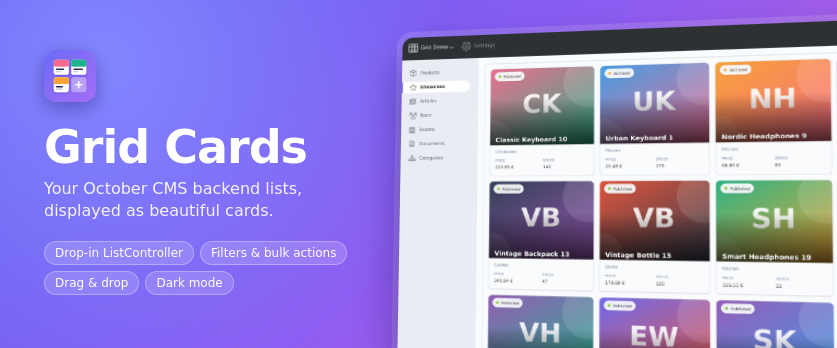
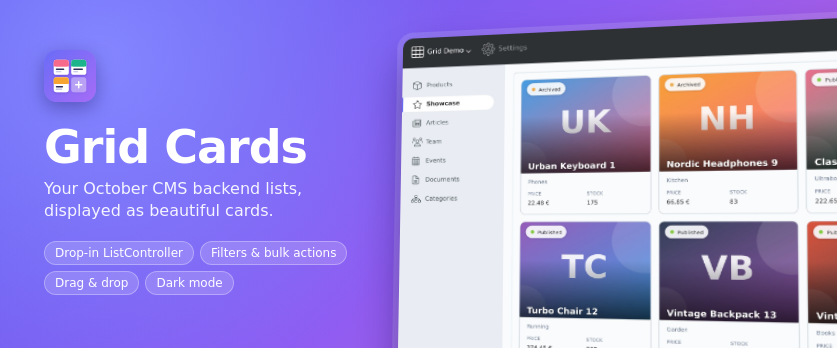
Marketplace screenshots at 1800 x 1350 (ratio 1.33), the 5 first ones chosen for the plugin page

diff --git a/docs/marketplace/banner.html b/docs/marketplace/banner.html
@@ -31,7 +31,7 @@
 </style>
 </head>
 <body>
-    <div class="shot"><img src="../screenshots/02-showcase-overlay-sortable.jpg" alt=""></div>
+    <div class="shot"><img src="../screenshots/02-overlay-sortable.jpg" alt=""></div>
     <div class="text">
         <img class="logo" src="logo.svg" alt="">
         <h1>Grid Cards</h1>

diff --git a/docs/marketplace/listing.md b/docs/marketplace/listing.md
@@ -13,7 +13,7 @@ Fields to fill in the plugin form of the October CMS Marketplace.
 | Category | Developer tools |
 | Icon | `logo.png` (512 × 512) |
 | Banner | `banner.png` (837 × 348), `banner@2x.png` (1674 × 696) |
-| Screenshots | `../screenshots/*.jpg`, in the order of their numbers |
+| Screenshots | `../screenshots/*.jpg` (1800 × 1350, ratio 1.33), in the order of their numbers: only the first 5 are displayed on the plugin page |
 
 ## Short description
 
@@ -25,18 +25,19 @@ backend, list, grid, cards, card view, gallery, ListController, list widget, reo
 
 ## Screenshot captions
 
+The first 5 screenshots are displayed on the plugin page.
+
 | File | Caption |
 |---|---|
 | 01-products-cards.jpg | Products as cards, with the filters, the search and the sort selector of the list |
-| 02-showcase-overlay-sortable.jpg | Overlay layout: the title over the image, cards reordered by drag and drop |
-| 03-articles.jpg | Articles with a status badge, an excerpt and statistics |
-| 04-team.jpg | Team members with avatars, email links and availability switches |
-| 05-events.jpg | Cards without image: a date tile partial, date and time columns |
-| 06-documents.jpg | Compact cards with file attachments |
-| 07-products-selection.jpg | Bulk selection: checked cards and the toolbar actions |
-| 08-articles-sort-selector.jpg | The sort selector replaces the column headers of the table |
-| 09-products-dark.jpg | Dark mode |
-| 10-events-dark.jpg | Dark mode |
-| 11-team-dark.jpg | Dark mode |
-| 12-products-mobile.jpg | Responsive grid on mobile |
-| 13-events-mobile.jpg | Responsive grid on mobile |
+| 02-overlay-sortable.jpg | Overlay layout: the title over the image, cards reordered by drag and drop |
+| 03-team.jpg | Team members with avatars, email links and availability switches |
+| 04-events.jpg | Cards without image: a date tile partial, date and time columns |
+| 05-dark-mode.jpg | Dark mode, with the colors of the backend theme |
+| 06-bulk-selection.jpg | Bulk selection: checked cards and the toolbar actions |
+| 07-articles.jpg | Articles with a status badge, an excerpt and statistics |
+| 08-documents.jpg | Compact cards with file attachments |
+| 09-sort-selector.jpg | The sort selector replaces the column headers of the table |
+| 10-responsive.jpg | Responsive grid on mobile |
+| 11-events-dark.jpg | Dark mode |
+| 12-team-dark.jpg | Dark mode |

diff --git a/README.md b/README.md
@@ -63,9 +63,9 @@ The full reference (card sections, field widths, grid options, layouts, reorderi
 
 | | |
 |---|---|
-| ![Products](docs/screenshots/01-products-cards.jpg) | ![Overlay layout](docs/screenshots/02-showcase-overlay-sortable.jpg) |
-| ![Team](docs/screenshots/04-team.jpg) | ![Events](docs/screenshots/05-events.jpg) |
-| ![Bulk selection](docs/screenshots/07-products-selection.jpg) | ![Dark mode](docs/screenshots/09-products-dark.jpg) |
+| ![Products](docs/screenshots/01-products-cards.jpg) | ![Overlay layout](docs/screenshots/02-overlay-sortable.jpg) |
+| ![Team](docs/screenshots/03-team.jpg) | ![Events](docs/screenshots/04-events.jpg) |
+| ![Dark mode](docs/screenshots/05-dark-mode.jpg) | ![Responsive](docs/screenshots/10-responsive.jpg) |
 
 ## License
 
